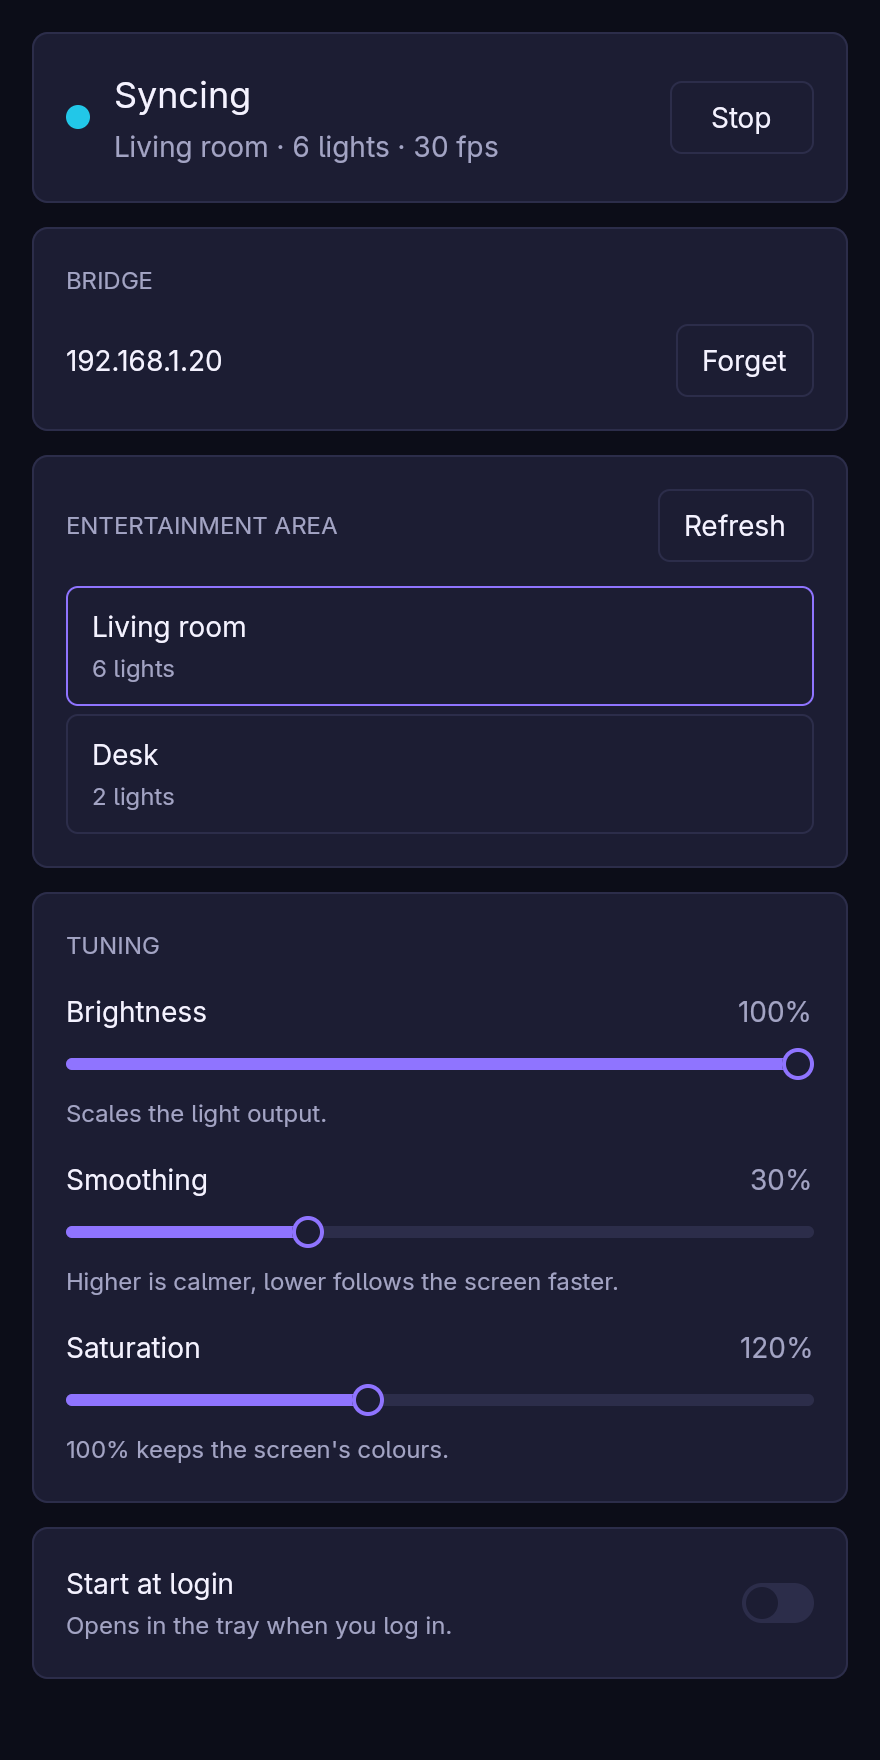
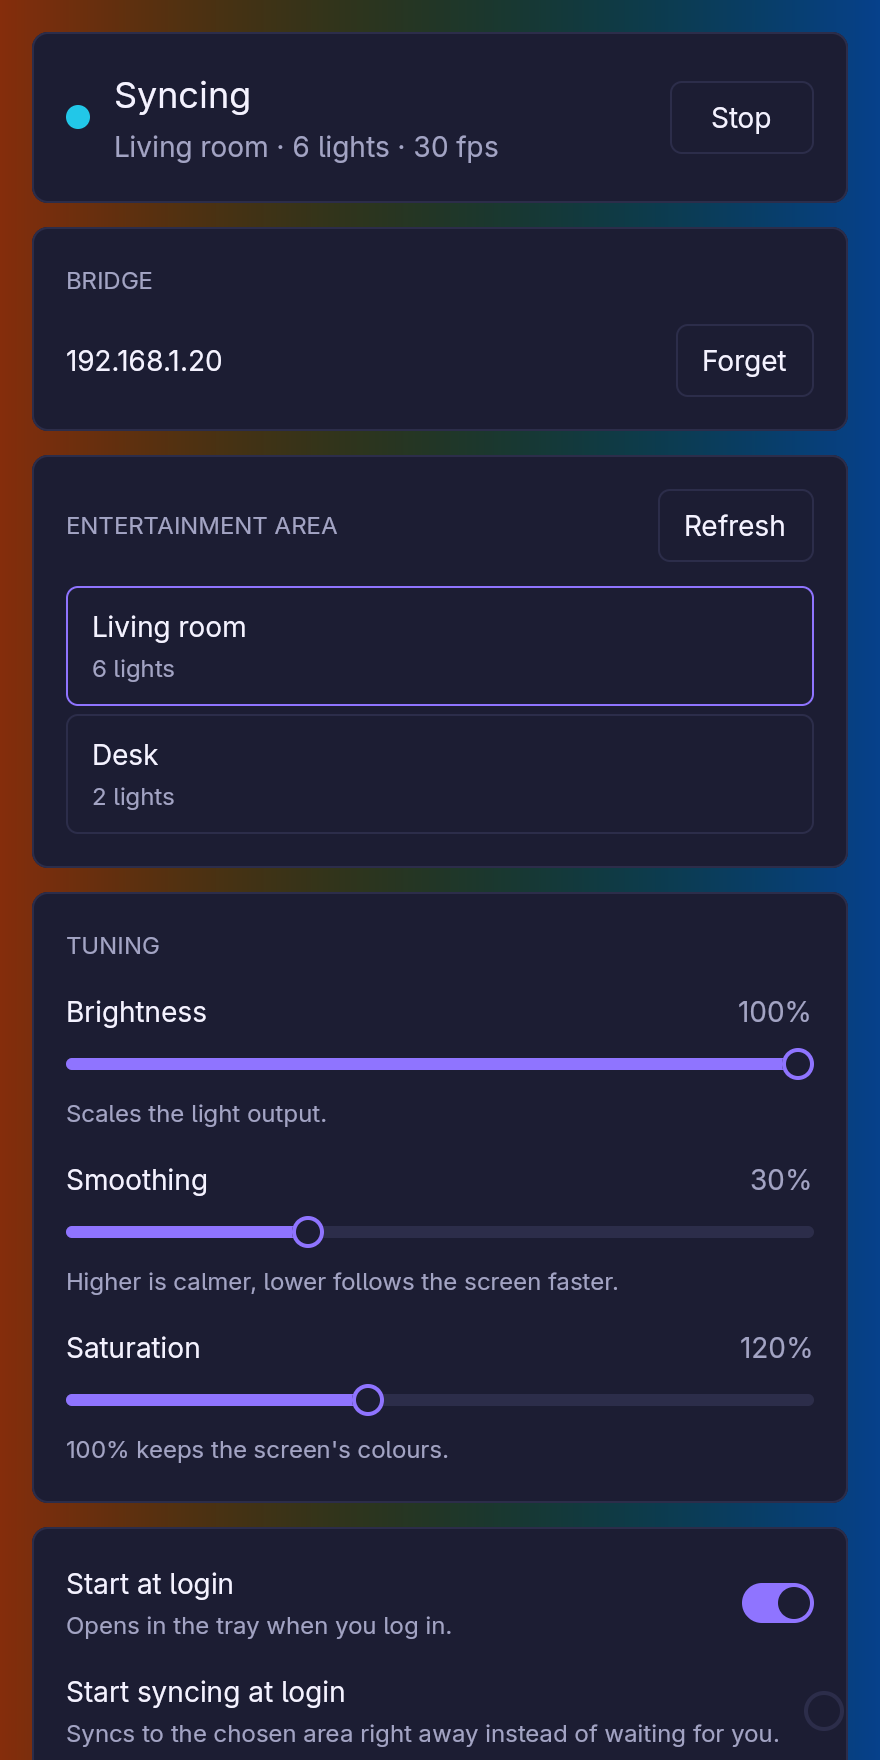
feat(gui): tint the window background with the screen's colours while syncing
The engine publishes the colours it sends each frame through
Engine::subscribe_colors, on its own channel so status watchers don't wake
every frame. The window paints a left-to-right gradient of them behind the cards.

Changed region(s): [[0.0, 0.0, 1.0, 1.0]]

diff --git a/crates/lightmime-gui/src/view.rs b/crates/lightmime-gui/src/view.rs
@@ -7,11 +7,12 @@ use std::time::Duration;
 
 use anyhow::Result;
 use gpui::{
-    AnyElement, Bounds, Context, Entity, FontWeight, Pixels, SharedString, Task, Window, div,
-    prelude::*, px,
+    AnyElement, Bounds, Context, Entity, FontWeight, Hsla, Pixels, Rgba, SharedString, Task,
+    Window, div, linear_color_stop, linear_gradient, prelude::*, px,
 };
+use lightmime_core::color::Zone;
 use lightmime_core::config::{MAX_SATURATION, MAX_SMOOTHING};
-use lightmime_core::hue::{self, Bridge, DiscoveredBridge};
+use lightmime_core::hue::{self, Bridge, ChannelColor, DiscoveredBridge};
 use lightmime_core::{BridgeConfig, EngineState, Status, SyncSettings};
 
 use crate::Shared;
@@ -87,6 +88,8 @@ pub struct MainView {
     slider_bounds: [Rc<Cell<Bounds<Pixels>>>; 3],
     save_settings: Option<Task<()>>,
     drag: Drag,
+    /// Left and right of the screen while syncing, painted behind the cards.
+    screen: Option<[Hsla; 2]>,
     _watchers: Vec<Task<()>>,
 }
 
@@ -103,6 +106,9 @@ impl MainView {
         let settings_watcher = watch(shared.engine.subscribe_settings(), cx, |this, s| {
             this.settings = s
         });
+        let colors_watcher = watch(shared.engine.subscribe_colors(), cx, |this, colors| {
+            this.screen = screen_edges(&colors)
+        });
 
         let mut view = Self {
             status: shared.engine.status(),
@@ -115,9 +121,10 @@ impl MainView {
             autostart: autostart::current(),
             notice: None,
             drag: Drag::default(),
+            screen: None,
             slider_bounds: Default::default(),
             save_settings: None,
-            _watchers: vec![status_watcher, settings_watcher],
+            _watchers: vec![status_watcher, settings_watcher, colors_watcher],
             shared,
         };
         if view.bridge.is_paired() {
@@ -605,7 +612,14 @@ impl Render for MainView {
             .id("main")
             .size_full()
             .overflow_y_scroll()
-            .bg(theme.bg)
+            .map(|this| match self.screen {
+                Some([left, right]) => this.bg(linear_gradient(
+                    90.,
+                    linear_color_stop(left, 0.),
+                    linear_color_stop(right, 1.),
+                )),
+                None => this.bg(theme.bg),
+            })
             .text_color(theme.text)
             .p_4()
             .flex()
@@ -632,6 +646,7 @@ impl Render for MainView {
             .into_any_element();
         div()
             .size_full()
+            .bg(theme.bg)
             .font_family(cx.global::<UiFont>().0.clone())
             .text_color(theme.text)
             .child(decorations::frame(
@@ -641,6 +656,34 @@ impl Render for MainView {
                 &self.drag,
                 content,
             ))
+    }
+}
+
+/// Average colour of the lights on the left and right half of the screen, half transparent
+/// so the theme's background tones it down.
+fn screen_edges(colors: &[(Zone, ChannelColor)]) -> Option<[Hsla; 2]> {
+    let side = |left: bool| {
+        let lights: Vec<_> = colors
+            .iter()
+            .filter(|(zone, _)| (zone.x < 0.5) == left)
+            .collect();
+        if lights.is_empty() {
+            return None;
+        }
+        let total = lights.len() as f32 * f32::from(u16::MAX);
+        let channel =
+            |i: usize| lights.iter().map(|(_, c)| f32::from(c.rgb[i])).sum::<f32>() / total;
+        Some(Hsla::from(Rgba {
+            r: channel(0),
+            g: channel(1),
+            b: channel(2),
+            a: 0.5,
+        }))
+    };
+    match (side(true), side(false)) {
+        (Some(left), Some(right)) => Some([left, right]),
+        (Some(only), None) | (None, Some(only)) => Some([only, only]),
+        (None, None) => None,
     }
 }
 
@@ -721,5 +764,54 @@ impl MainView {
             area: "Living room".into(),
             channels: 6,
         };
+        self.screen = screen_edges(&[
+            tests::light(0.0, [u16::MAX, 20_000, 0]),
+            tests::light(1.0, [0, 30_000, u16::MAX]),
+        ]);
+    }
+}
+
+#[cfg(test)]
+mod tests {
+    use super::*;
+
+    pub(super) fn light(x: f32, rgb: [u16; 3]) -> (Zone, ChannelColor) {
+        (
+            Zone {
+                channel_id: 0,
+                x,
+                y: 0.5,
+            },
+            ChannelColor { channel_id: 0, rgb },
+        )
+    }
+
+    #[test]
+    fn screen_edges_average_each_half() {
+        assert!(screen_edges(&[]).is_none());
+        let [left, right] = screen_edges(&[
+            light(0.0, [u16::MAX, 0, 0]),
+            light(0.2, [0, 0, 0]),
+            light(0.9, [0, 0, u16::MAX]),
+        ])
+        .unwrap();
+        assert_eq!(
+            Rgba::from(left),
+            Rgba {
+                r: 0.5,
+                g: 0.,
+                b: 0.,
+                a: 0.5
+            }
+        );
+        assert_eq!(
+            Rgba::from(right),
+            Rgba {
+                r: 0.,
+                g: 0.,
+                b: 1.,
+                a: 0.5
+            }
+        );
     }
 }

diff --git a/crates/lightmime-core/src/engine.rs b/crates/lightmime-core/src/engine.rs
@@ -71,6 +71,7 @@ pub struct Engine {
     commands: mpsc::UnboundedSender<Command>,
     status: watch::Receiver<Status>,
     settings: Arc<watch::Sender<SyncSettings>>,
+    colors: watch::Receiver<Vec<(Zone, ChannelColor)>>,
 }
 
 impl Engine {
@@ -81,11 +82,13 @@ impl Engine {
         let (commands, command_rx) = mpsc::unbounded_channel();
         let (status_tx, status) = watch::channel(Status::default());
         let settings = Arc::new(watch::Sender::new(config.sync.clone().sanitized()));
+        let (colors_tx, colors) = watch::channel(Vec::new());
         let actor = Actor {
             config,
             restore_token_path,
             settings: settings.subscribe(),
             status: Arc::new(status_tx),
+            colors: Arc::new(colors_tx),
             commands: commands.clone(),
             session: None,
             sessions_opened: 0,
@@ -95,6 +98,7 @@ impl Engine {
             commands,
             status,
             settings,
+            colors,
         }
     }
 
@@ -130,6 +134,12 @@ impl Engine {
         self.settings.subscribe()
     }
 
+    /// Watch the colours sent to the lights, with where on the screen each one comes from.
+    /// Empty while not streaming.
+    pub fn subscribe_colors(&self) -> watch::Receiver<Vec<(Zone, ChannelColor)>> {
+        self.colors.clone()
+    }
+
     /// Change settings; takes effect on the next frame.
     pub fn update_settings(&self, update: impl FnOnce(&mut SyncSettings)) {
         self.settings.send_if_modified(|settings| {
@@ -148,6 +158,7 @@ struct Actor {
     restore_token_path: Option<PathBuf>,
     settings: watch::Receiver<SyncSettings>,
     status: Arc<watch::Sender<Status>>,
+    colors: Arc<watch::Sender<Vec<(Zone, ChannelColor)>>>,
     commands: mpsc::UnboundedSender<Command>,
     session: Option<Session>,
     sessions_opened: u64,
@@ -295,6 +306,7 @@ impl Actor {
             room,
             settings: self.settings.clone(),
             status: self.status.clone(),
+            colors: self.colors.clone(),
             stop: stop.clone(),
         };
         self.sessions_opened += 1;
@@ -364,11 +376,18 @@ struct StreamWorker {
     room: Vec<ChannelColor>,
     settings: watch::Receiver<SyncSettings>,
     status: Arc<watch::Sender<Status>>,
+    colors: Arc<watch::Sender<Vec<(Zone, ChannelColor)>>>,
     stop: Arc<AtomicBool>,
 }
 
 impl StreamWorker {
     fn run(mut self) -> Result<()> {
+        let result = self.stream();
+        self.colors.send_replace(Vec::new());
+        result
+    }
+
+    fn stream(&mut self) -> Result<()> {
         let mut stream = EntertainmentStream::connect(
             &self.host,
             &self.identity,
@@ -397,6 +416,7 @@ impl StreamWorker {
                 None => self.room.clone(),
             };
             stream.send(&colors)?;
+            self.publish(&colors);
             sent += 1;
 
             let elapsed = window.elapsed();
@@ -416,16 +436,19 @@ impl StreamWorker {
 
         let stopping = Instant::now();
         while stopping.elapsed() < FADE {
-            stream.send(&wipe(
-                &colors,
-                &self.room,
-                self.mapper.zones(),
-                stopping.elapsed(),
-            ))?;
+            let fading = wipe(&colors, &self.room, self.mapper.zones(), stopping.elapsed());
+            stream.send(&fading)?;
+            self.publish(&fading);
             std::thread::sleep(Duration::from_millis(20));
         }
         stream.close();
         Ok(())
+    }
+
+    fn publish(&self, colors: &[ChannelColor]) {
+        let zones = self.mapper.zones().iter().copied();
+        self.colors
+            .send_replace(zones.zip(colors.iter().copied()).collect());
     }
 }
 

diff --git a/AGENTS.md b/AGENTS.md
@@ -52,7 +52,8 @@ packaging/linux/           metainfo, Flatpak manifest + launcher, flatpak.sh (bu
 
 - `lightmime-core` stays frontend-agnostic: no MQTT, CLI or GUI code there.
   Frontends interact only through `Engine` (`spawn`, `start`, `stop`,
-  `set_bridge`, `status`/`subscribe`, `settings`/`subscribe_settings`/`update_settings`).
+  `set_bridge`, `status`/`subscribe`, `settings`/`subscribe_settings`/`update_settings`,
+  `subscribe_colors`; the window paints its background from the latter while syncing).
   `lightmime-gui` embeds `Engine` the same way the daemon does; with MQTT on,
   both share one engine in the `gui` process.
 - The engine is an actor on the tokio runtime; frame streaming runs on a
